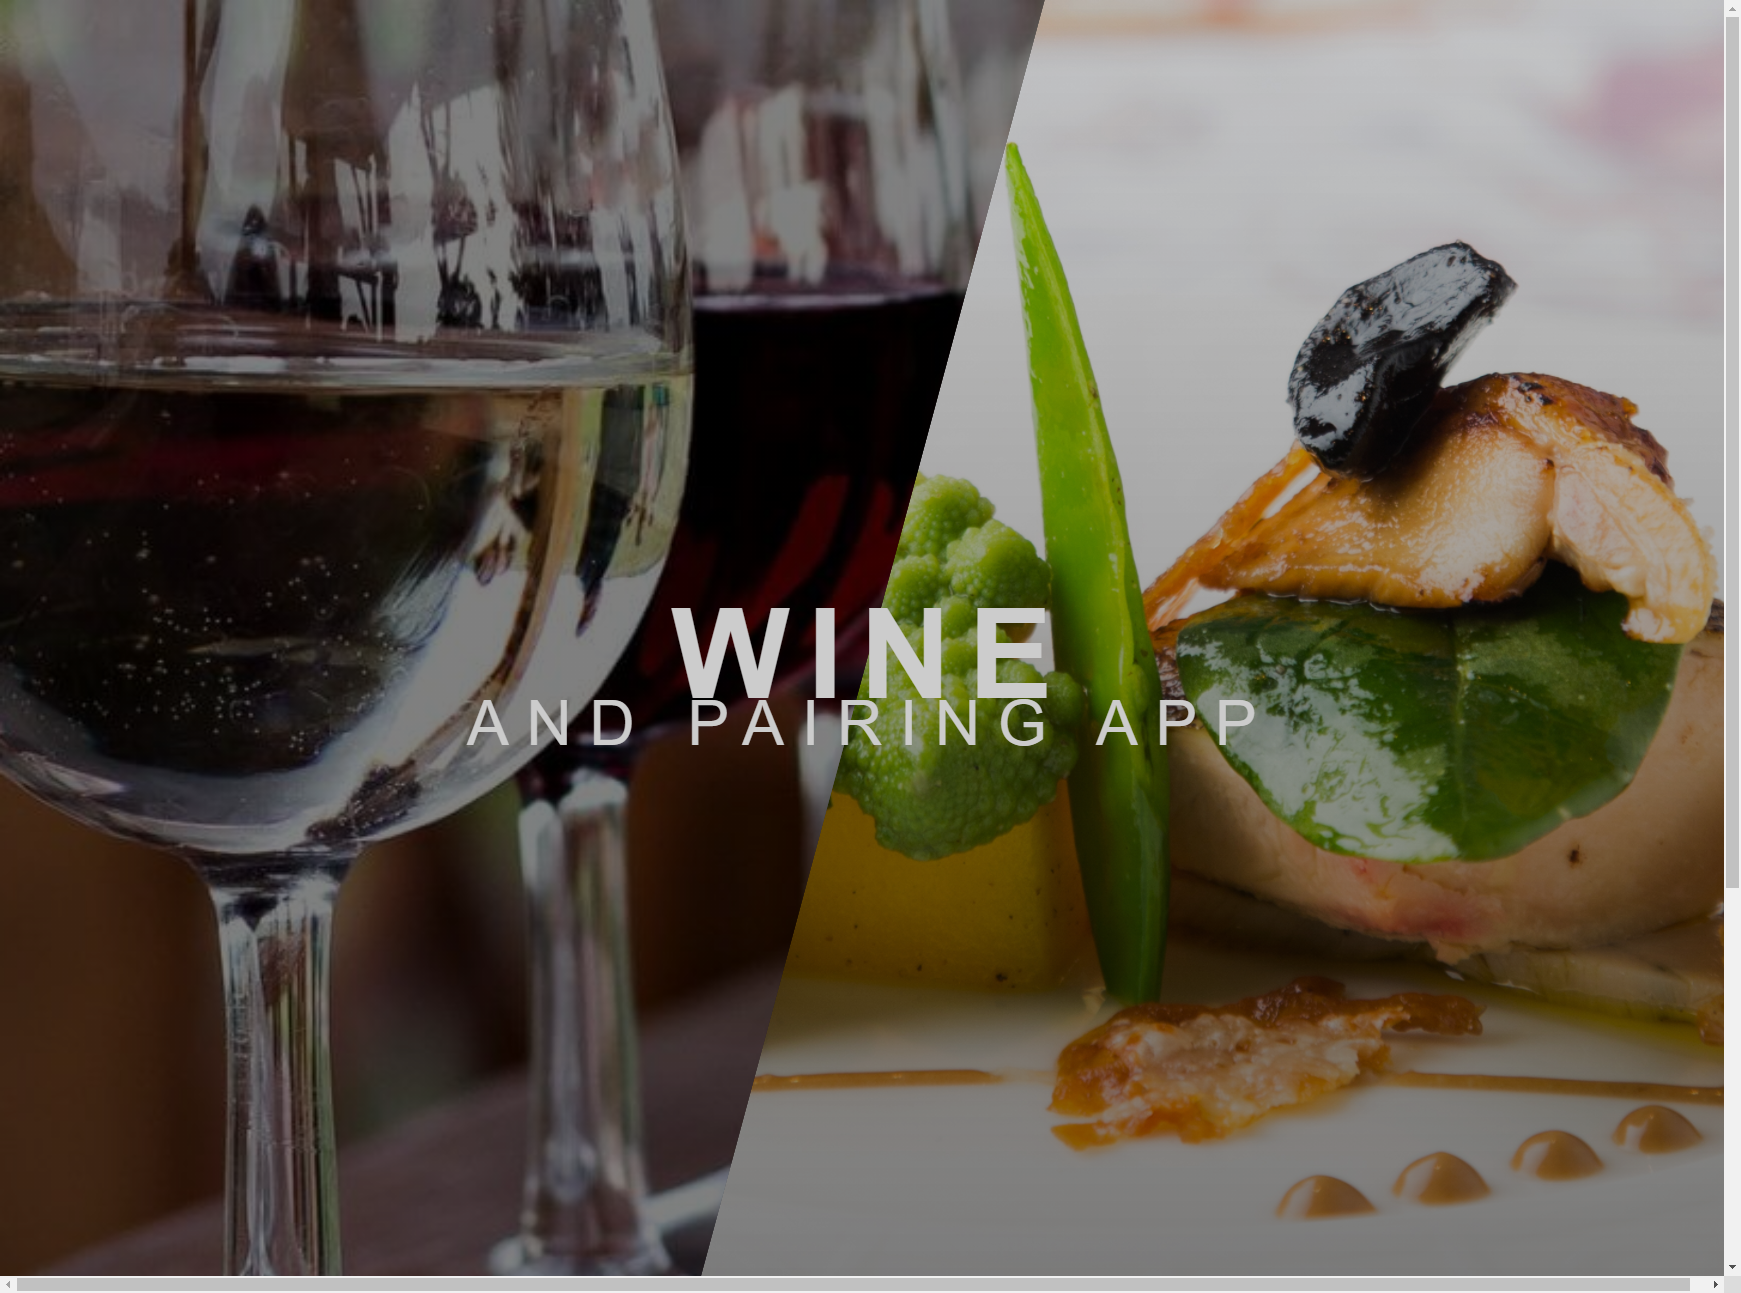
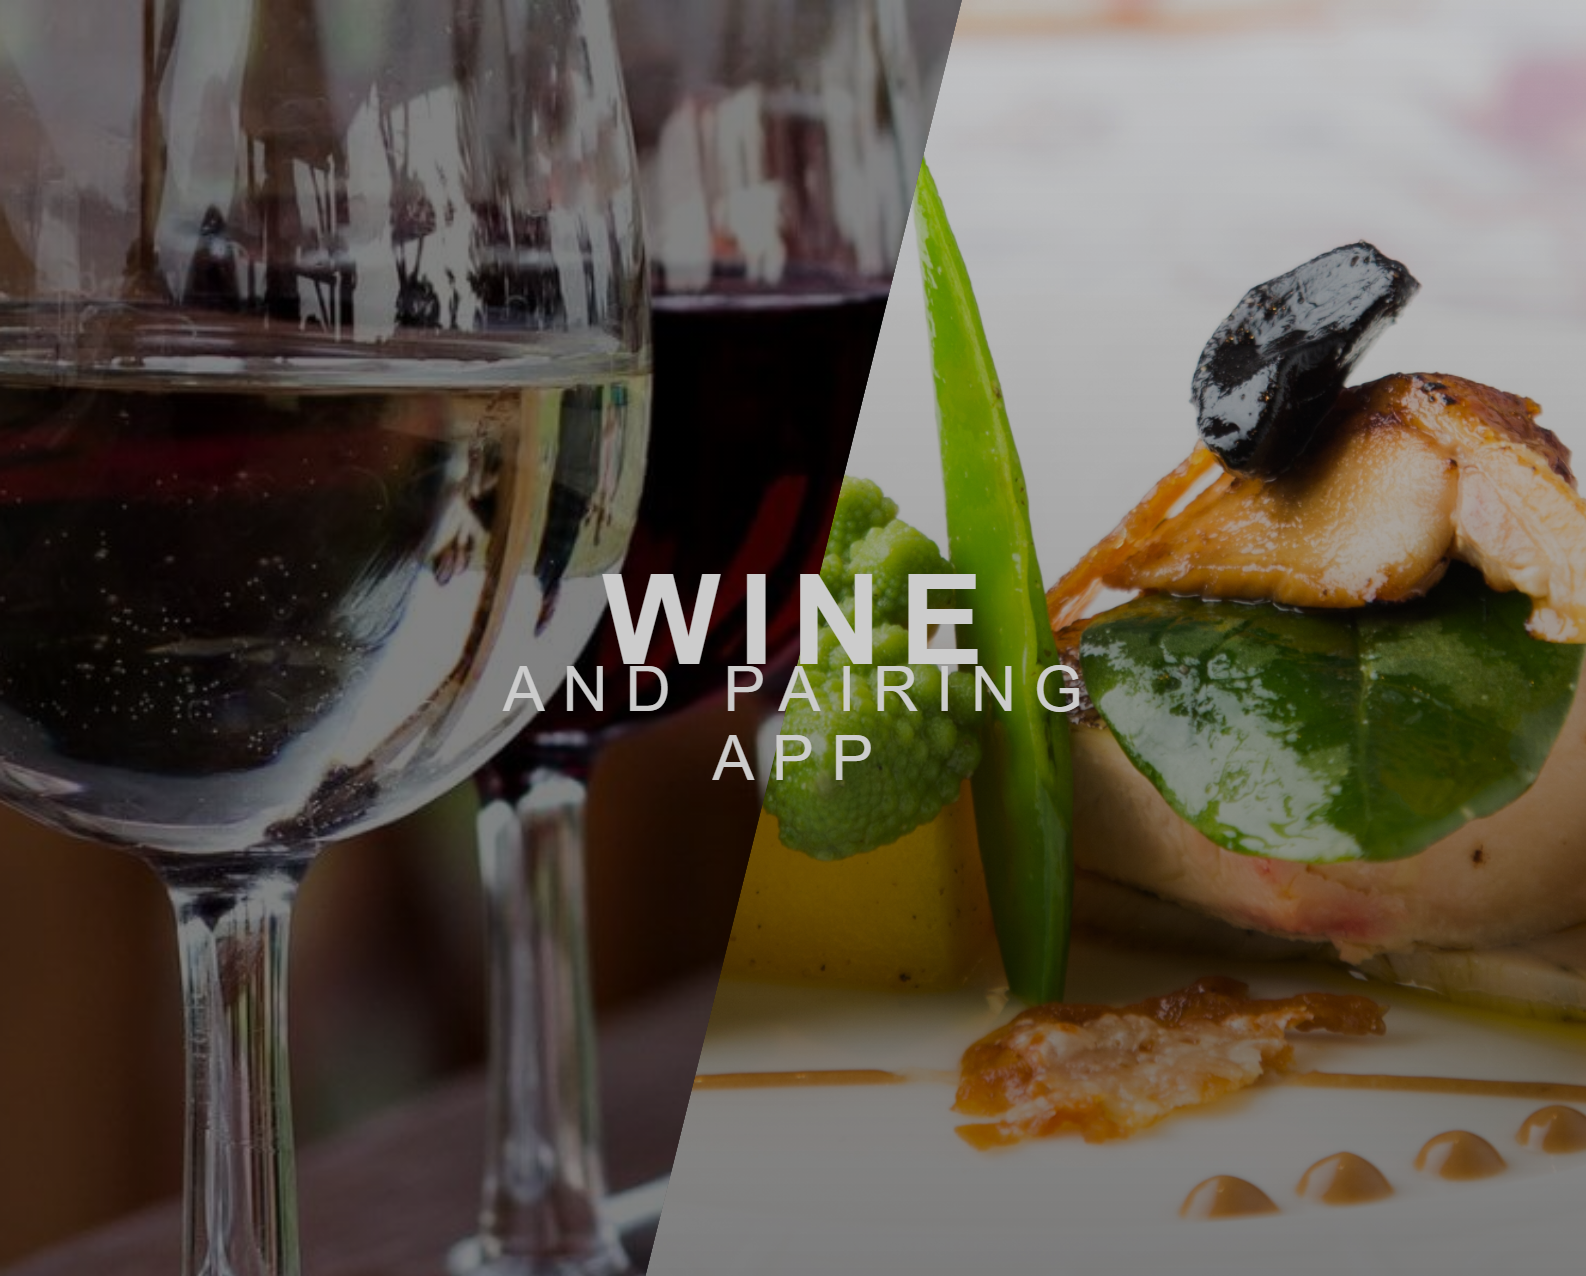
updated featured project. added resume, linkedIn, etc. updated summary text

diff --git a/index.html b/index.html
@@ -46,9 +46,9 @@
 				<h3>About Me</h3>
 			</div>
 			<div id="about-me" class="about-me">
-				<p>Lorem ipsum dolor sit amet, consectetur adipiscing elit. Vivamus eu velit lacus. Maecenas convallis diam id diam mollis, in bibendum quam bibendum. Suspendisse ultricies at felis eget suscipit. Ut et maximus urna, a venenatis massa. Duis at ligula dictum dui elementum feugiat. Nunc tempor at erat sed aliquam. Duis aliquet tortor orci, ut accumsan massa viverra ultricies. Vestibulum in ultricies ante. Mauris varius tempus tellus. Nullam euismod suscipit metus sed accumsan. Sed efficitur laoreet pellentesque. Vivamus sapien enim, euismod sit amet nisi dignissim, tempus auctor odio. Sed eleifend elementum massa in pulvinar.</p>
+				<p>Results-oriented, innovative professional known for ability to create alignment between internal and external stakeholders while translating user requirements into market-ready product solutions that delight clients. Ambitiously engaged in transitioning from working on what software gets built to how the software gets built.</p>
 
-				<p>Donec volutpat scelerisque tellus, sed blandit erat placerat sed. Phasellus vitae varius eros. Praesent eget accumsan quam. Cras semper ante a orci auctor rutrum. Etiam mi lacus, interdum eu nisl ut, malesuada sollicitudin libero. Curabitur volutpat diam cursus, gravida justo commodo, dignissim ex. Morbi quis pellentesque metus, ut malesuada ex. Ut pretium varius dui, a aliquam leo varius sed. Sed in tellus velit. Sed at dapibus sapien. In lacus quam, mattis quis dolor quis, condimentum dapibus augue. Phasellus ac mauris nec erat condimentum tristique. Aenean consequat, tellus nec tincidunt facilisis, leo odio dictum odio, in aliquam lectus ipsum ac felis.</p>
+				<p>I have diverse experience in product management, from starting out in the affiliate marketing industry with a focus on reporting and the publisher payment process, to a health and fitness app, to enterprise project management software in the construction industry, to educational technology in the medical industry. My interest in learning new things has guided my career path. I've now taken my learning to the next level and am currently training to become a software developer.</p>
 			</div>
 		</section>
 
@@ -59,15 +59,17 @@
 			</div>
 			
 			<div class="featured-project">
-				<a href="https://timweyel.github.io/run-buddy/" target="_blank"><img src="./assets/images/featured-project.png" alt="picture of website with interstellar space as a background" /></a>
+				<a href="https://ucb-bootcamp.github.io/wine-and-dine/" target="_blank"><img src="assets/images/wine-pairing-app/screenshot-1.png" alt="split image of a glass of wine and fine food " /></a>
 			
 				<div  class="projects flex-row">
 					
 					<a href="https://timweyel.github.io/Horiseon-Social-Solution-Services/" target="_blank"><img src="./assets/images/project1.png" alt="picture of website with an artisticly painted coffee mug" /></a>
 
-					<a href="#" target="_blank"><img src="./assets/images/project2.png" alt="picture of a website with a soccer player celebrating with his shirt pulled over his head"></a>
+					<a href="https://timweyel.github.io/run-buddy/" target="_blank"><img src="./assets/images/featured-project.png" alt="picture of a website with a soccer player celebrating with his shirt pulled over his head"></a>
 
 					<a href="#" target="_blank"><img src="./assets/images/project3.png" alt="picture of a website with neon parabolic arches" /></a>
+
+					<a href="#" target="_blank"><img src="./assets/images/project4.png" alt="picture of a desktop with an ornate pencil holder and a keyboard" /></a>
 
 					<a href="#" target="_blank"><img src="./assets/images/project4.png" alt="picture of a desktop with an ornate pencil holder and a keyboard" /></a>
 				</div>
@@ -81,16 +83,19 @@
 			</div>
 			<ul>
 				<li>
-					<a href="#phone">888-867-5309</a>
+					<a href="#phone">805-570-9159</a>
 				</li>
 				<li>
 					<a href="mailto: tweyel@gmail.com">email</a>
 				</li>
 				<li>
-					<a href="https://github.com/timweyel/">github</a>
+					<a href="https://github.com/timweyel/" target=”_blank”>github</a>
 				</li>
 				<li>
-					<a href="https://www.linkedin.com/in/timweyel/">LinkedIn</a>
+					<a href="https://www.linkedin.com/in/timweyel/" target=”_blank”>LinkedIn</a>
+				</li>
+				<li>
+					<a href="assets/Resume - Tim Weyel.pdf" target=”_blank”>Resume</a>
 				</li>
 			</ul>
 		</footer>
